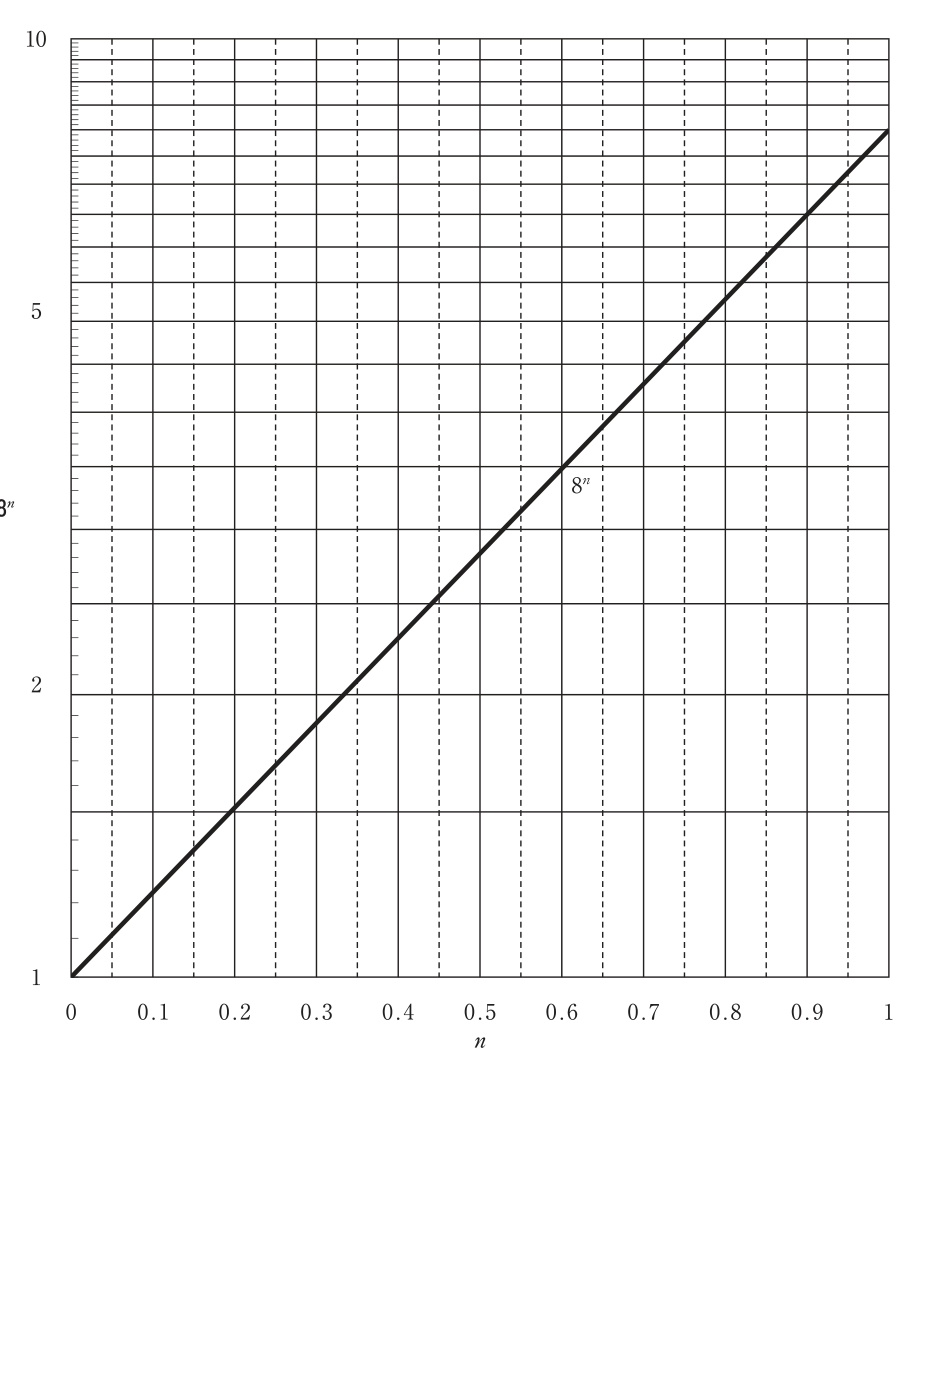
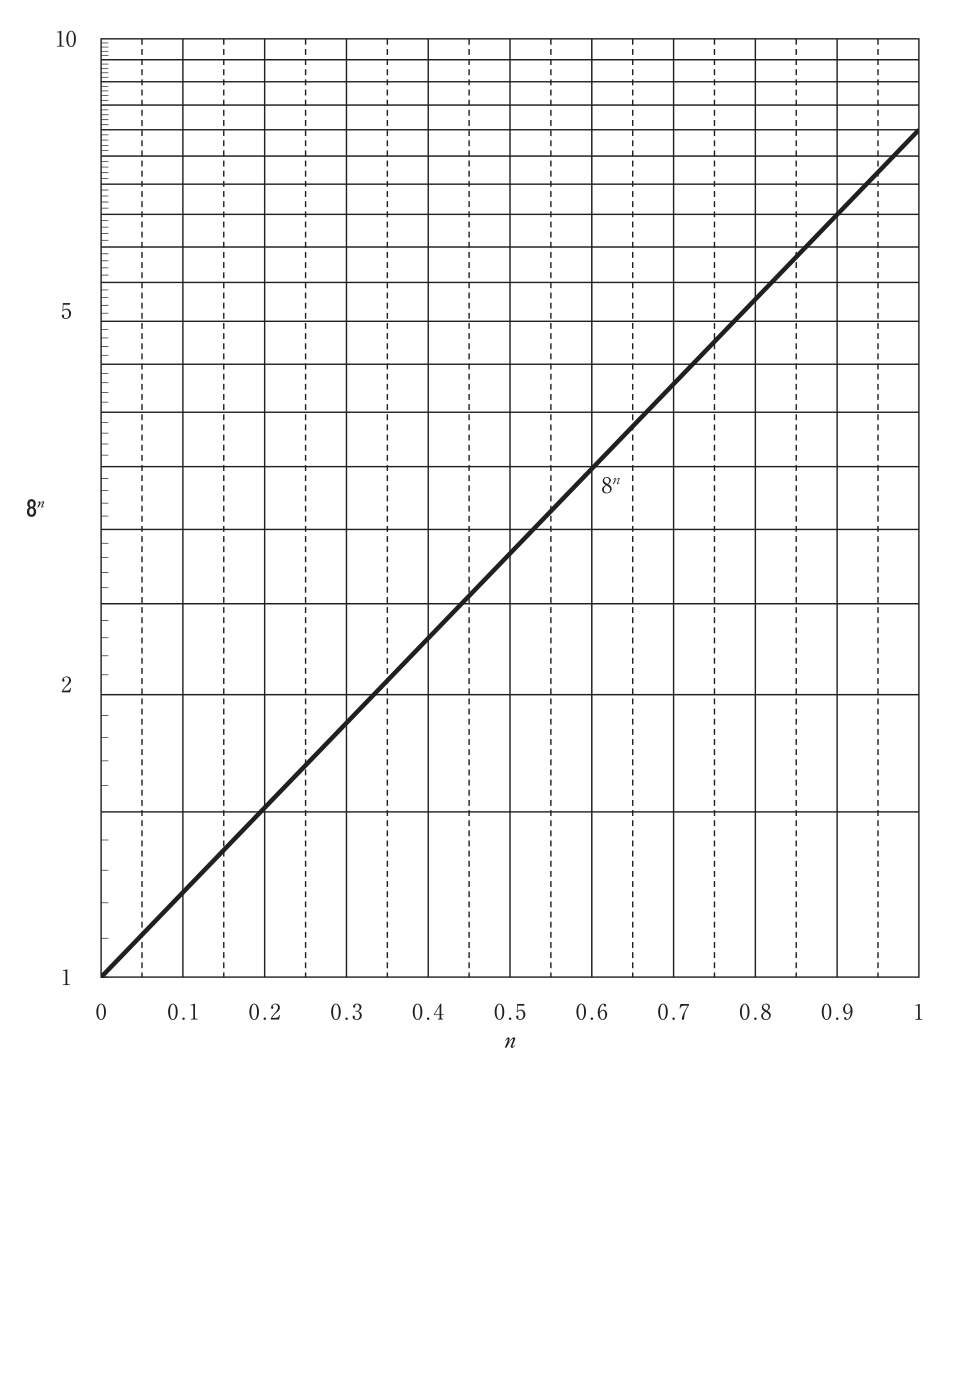
Fix khk-kikai review findings (unit notation, figure crop, drawing answer)
Claude-Session: https://claude.ai/code/session_01TieomDpLoArZ9rCumNXwzA

diff --git a/reports/cloud-khk-kikai-latest2.md b/reports/cloud-khk-kikai-latest2.md
@@ -90,3 +90,25 @@
[3 lines of base64/hex data omitted]
+
+## 独立レビューFAIL指摘の修正（2026-11-03 UTC）
+
+`reports/cloud-khk-kikai-review.md` の3件を修正した。以下は作者による修正・再検証の記録であり、独立した再レビューの判定ではない。
+
+1. **令和7年度・乙種機械・学識問1「ロ」**：`khk-kikai-otsu/questions.json` の問題文を `kg・m²/s2` から **`kg・m²/s²`** に修正。[公式問題PDF・物理2ページ](https://www.khk.or.jp/Portals/0/khk/exam/2025/1110/R7ACFZ-W.pdf#page=2)の指数表記に合わせた。
+2. **令和6年度・甲種機械・学識問5**：同梱の[公式問題PDF・物理8ページ](https://www.khk.or.jp/Portals/0/khk/exam/2024/R6ACEZ-W.pdf#page=8)から `figures/2024-gakushiki-q5-p8.png` を再切り出し。矩形を `[60, 30, 535, 730]` から **`[45, 30, 535, 730]`** に広げ、左縦軸ラベル **8ⁿ** 全体が余白付きで入ることを目視確認した。`figures.json` の矩形も更新した。
+3. **令和6年度・甲種機械・学識問1(1)**：同梱の[公式解答例 R6fy_02.pdf・物理1ページ](https://www.khk.or.jp/Portals/0/khk/exam/2024/R6fy_02.pdf#page=1)の解答図を矩形 `[90, 145, 420, 370]` で切り出し、`figures/2024-gakushiki-q1-answer-p1.png` として追加した。`khk-kikai-kou/questions.json` の `answerImageUrls`・`answerImageAltTexts` に接続し、出典表示と `figures.json` に原典・ページ・矩形・解答図の用途を記録した。`modelAnswer`・`answer`・`explanation` の小問(1)を、解答図への参照、左右端の油・冷却水の入口／出口、温度記号と値、互いに逆向きの流れを説明する文章に更新した。図の未知数 `t_s2` は小問(3)で約301 Kと求まることも明記した。
+
+入力図6点・独自解答SVG1点に公式解答図1点を加え、図は計8点。READMEの図一覧も更新した。
+
+### 修正後の再検証
+
+コマンド実行には `COREPACK_HOME=/tmp/khk-corepack` を使用した。
+
+- 専用validate：`pnpm exec tsx -e 'import { validateKhkKikai } from "./scripts/validate-khk-kikai"; validateKhkKikai();'`：**成功（終了コード0）**。未公開候補180問・公式正答170問・記述式10問・公式PDF16冊を検証。ログ：`/tmp/khk-failfix-validate.log`。
+- `pnpm validate:questions`：**成功（終了コード0）**。上記ステージング検証と、既存問題 `ok=26444 fail=0 warn=16808`。警告数は前回と同じ。ログ：`/tmp/khk-failfix-questions.log`。
+- `NODE_OPTIONS=--max-old-space-size=8192 pnpm typecheck`：**成功（終了コード0）**。ログ：`/tmp/khk-failfix-typecheck.log`。
+- `pnpm exec vitest run __tests__/questions/khk-kikai-staging.test.ts __tests__/questions/qualification-expansion.test.ts __tests__/lib/exam-config-integrity.test.ts __tests__/lib/home-directory.test.ts`：**4ファイル・1,092テスト成功（終了コード0）**。ログ：`/tmp/khk-failfix-tests.log`。
+- 画像2点を目視確認し、切れのない縦軸ラベル、解答図の流向・温度・全ラベルを確認した。両画像が記録した原本ページ・矩形からの2倍解像度再描画と画素単位で一致することも確認。単位表記、解答図参照、`modelAnswer` と `answer` の一致、`explanation` への反映を確認した。
+
+本修正ではcodexコマンドを起動せず、gitコマンドも一切実行せず、作業ツリーを直接編集した。

diff --git a/data/qualification-staging/khk-kikai/README.md b/data/qualification-staging/khk-kikai/README.md
@@ -8,7 +8,7 @@
 - `official-sources.json` / `sources/`：公式16PDFのURL・SHA256・ページ数とPDF及び抽出テキスト。
 - `official-answers.json`：機械の科目別公式正答170件と原表の該当行。
 - `manifest.json`：科目・年度別件数、整形内容、公開時の残作業。
-- `figures.json` / `figures/`：入力図6点の原本・ページ・切出し位置、独自の解答用SVG1点。
+- `figures.json` / `figures/`：入力図6点の原本・ページ・切出し位置、公式解答例から切り出した令和6年度甲種学識問1(1)の解答図1点、独自の解答用SVG1点。
 
 `imageUrls`・`answerImageUrls` はこのディレクトリからの相対パス。public配下には配置していない。図がある問も問題文はテキスト。記述式の `modelAnswer` は独自記述で公式例と照合済み。小問別の公式配点は不明なので採点基準は学習用の確認方針を示す。
 
